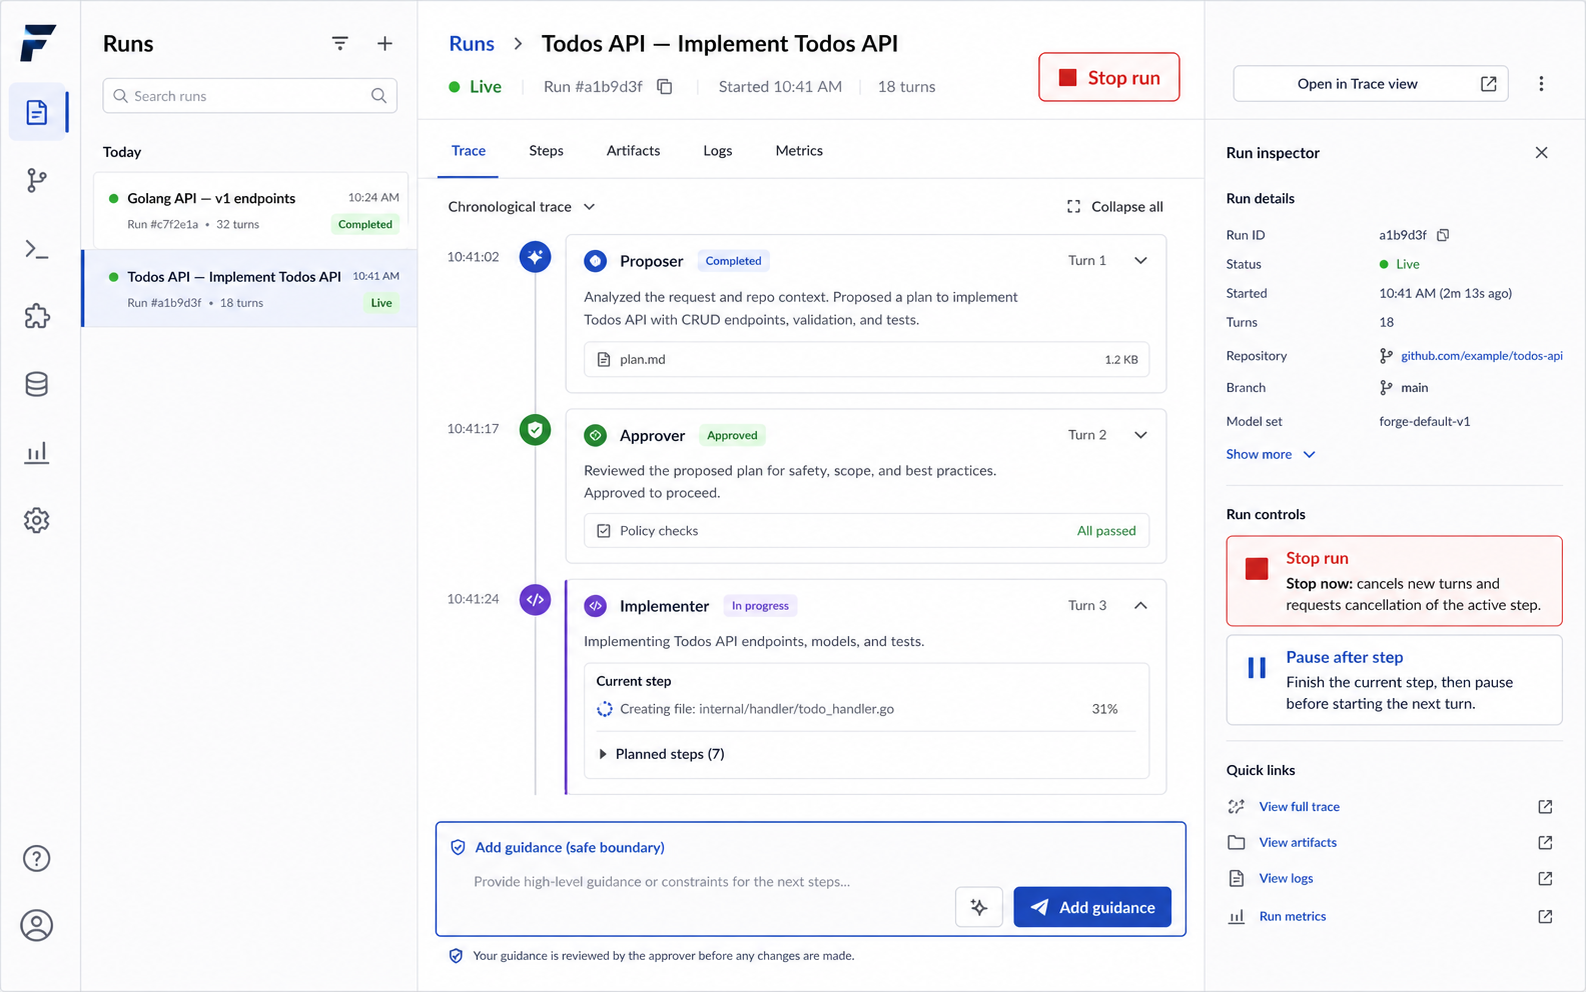
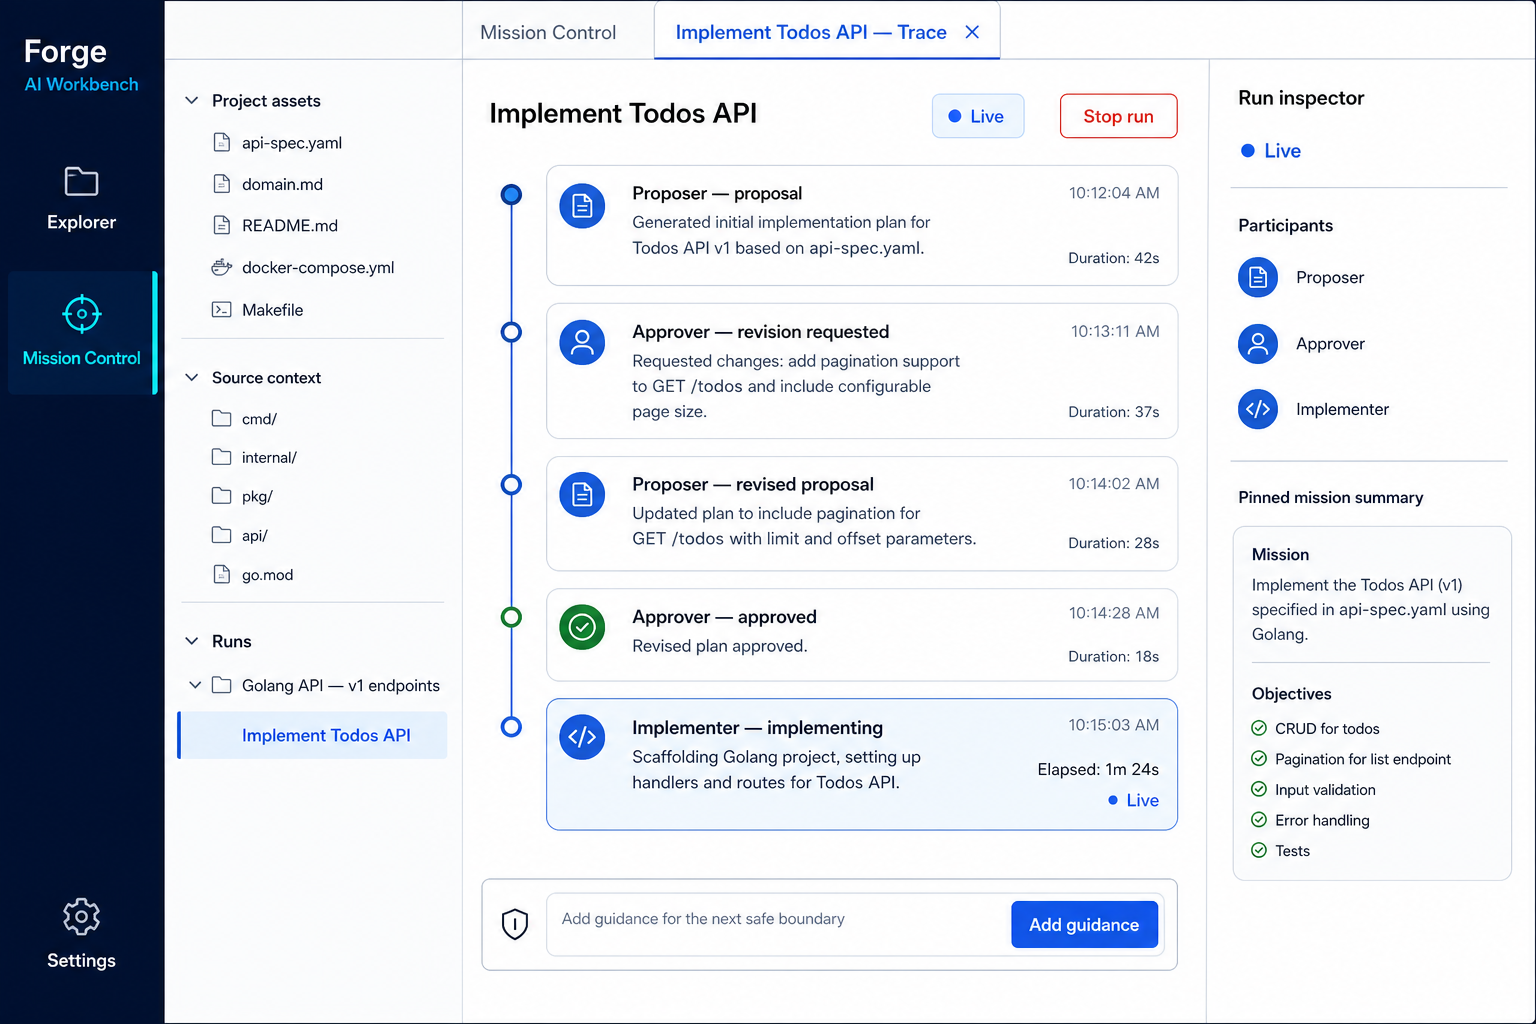
docs: unify Forge workbench journey visuals

diff --git a/docs/brainstorm/mission-conversations/README.md b/docs/brainstorm/mission-conversations/README.md
@@ -18,9 +18,10 @@ configuration—not a hosted shared workspace with membership or project-level r
 Forge workspace
 └── Project — e.g. Todos API, Golang API, TypeScript API
     ├── Mission Control — the long-lived human ↔ Forge REPL
-    ├── Mission assets — mission.mcl, expert prompts, profiles, context, checks
+    ├── Project assets — mission.mcl, expert prompts, profiles, context, checks
+    ├── Source context — attached files, directories, repositories, and artifacts
     └── Runs — named executions launched from the project
-        └── Janus trace — Proposer → Approver → Implementer
+        └── Janus trace — a debugger-like view of Proposer → Approver → Implementer
 ```
 
 This names the layers deliberately. In MCL, a `mission` is an executable definition; **Janus** is
@@ -43,15 +44,46 @@ credentials and explicit capability/approval policy of that action—not by a sp
 Project-owner/contributor permission system. Version control may share the project manifest and
 assets in the ordinary way; real-time hosted collaboration is a separate future product decision.
 
+## Locked MVP activity rail
+
+The workbench keeps a small, VS Code-like vertical activity rail. It is deliberately not a menu of
+every possible object in Forge. The three entries below are the initial MVP contribution set, not a
+closed or hard-coded list: later Forge capabilities can register an additional rail entry, pane, and
+document surface without changing the Project, Mission Control, or Run model.
+
+1. **Project Explorer** — a collapsible file/folder navigator for the selected local Project:
+   Mission assets, source context, and the Project-owned Runs.
+2. **Mission Control** — a control-tower entry point to the Project's continuing Forge conversation.
+   Its active and recent run cards link directly to their corresponding trace documents.
+3. **Settings** — a gear fixed at the bottom of the rail. For the MVP it opens an intentionally
+   empty placeholder surface, reserving a stable home for settings without inventing their scope.
+
+There is no separate **Runs** rail application: a Project owns its runs, Mission Control launches
+and links to them, and a selected run opens as a trace document. Notifications are deferred entirely
+from the MVP, including a rail icon; later they can become a workspace-level attention inbox for
+human intervention that deep-links to the owning Project, run, and trace.
+
+## Locked MVP visual language
+
+The workbench uses a light, calm content canvas paired with a dark navy activity rail. Forge blue
+and cyan express navigation, selection, and interactive actions; lime is reserved for positive,
+approved, or healthy states. Borders, inactive icons, and supporting text use restrained blue-gray.
+The palette should feel technical and distinctive without becoming a neon or rainbow interface.
+
+Every journey mock uses the same rail in the same order: **Project Explorer** (folder), **Mission
+Control** (control-tower/crosshair), then **Settings** (gear, fixed to the bottom). The currently
+open surface alone receives the cyan selected treatment. No mock introduces a fourth rail entry,
+including Notifications or a standalone Runs view.
+
 ## The chronological experience
 
 ### 1. Choose a project
 
-Forge opens on Projects. The user selects an existing project—such as `Golang API` or
-`TypeScript API`—or creates a new one. The activity rail is persistent; its flyouts are manually
-collapsible, like VS Code.
+Forge opens with Project Explorer selected. The user selects an existing project—such as `Golang
+API` or `TypeScript API`—or creates a new one. The activity rail is persistent; its side panes are
+manually collapsible, like VS Code.
 
-![Step 1 — choose Golang API or TypeScript API from the Projects flyout](../images/mission-project-flow-01-choose-project.png)
+![Step 1 — choose Golang API or TypeScript API from Project Explorer](../images/mission-project-flow-01-choose-project.png)
 
 ### 2. Create a project from a goal
 
@@ -89,16 +121,16 @@ existing one.
 
 ### 6. Inspect and steer the Janus trace
 
-The run opens as an inspectable Forge Trace: its own surface, separate from Mission Control. A
-Runs flyout lists multiple named executions—shown here with `Golang API — v1 endpoints` and
-`Todos API — Implement Todos API` visible together. The selected trace shows the real
+The selected Project-owned run opens as an inspectable Forge Trace document. Mission Control remains
+the control surface and lists active and recent named runs; selecting one opens its trace without
+turning the trace itself into a generic chat room. The selected trace shows the real
 Proposer → Approver → Implementer exchange, state, artifacts, and a genuine safe-boundary guidance
 control. It also shows three deliberately different intervention paths: **Add guidance** for the
 next safe boundary, **Pause after step** to finish the active bounded action before stopping, and
 the prominent red **Stop run** break-glass control for drift or an unsafe direction. Selecting a
-run never hides, merges, or replaces the other run records.
+run never hides, merges, or replaces the other run records in Mission Control.
 
-![Step 6 — a named Runs flyout and selected Janus trace with safe-boundary guidance](../images/mission-project-flow-06-run-trace.png)
+![Step 6 — Project-owned Runs and a selected Janus trace with safe-boundary guidance](../images/mission-project-flow-06-run-trace.png)
 
 ### 7. Return the outcome to Mission Control
 
@@ -113,19 +145,19 @@ from a raw transcript.
 
 1. **Mission Control is project-scoped.** Opening `Golang API` and `TypeScript API` opens
    different durable control conversations and context, rather than two tabs over one global chat.
-2. **Run traces are inspectable documents.** They are dockable alongside source, diffs, artifacts,
+2. **A Project owns its runs.** Mission Control launches and summarizes them; its active and recent
+   run cards open the selected run's trace.
+3. **Run traces are inspectable documents.** They are dockable alongside source, diffs, artifacts,
    and mission-definition views; they are not generic chat rooms.
-3. **The activity rail provides navigation, not a permanent second transcript.** At ordinary
-   desktop width, the Projects or Runs flyout is visible by default when its rail icon is selected.
-   It can be manually collapsed exactly like VS Code’s primary sidebar, while the activity rail
-   remains available to restore it. On constrained widths, collapse the inspector before the
-   active flyout; hide it automatically only on genuinely narrow/mobile layouts.
-4. **Durability remains server-owned.** The workbench discovers projects, conversations, and runs
+4. **The activity rail is intentionally small.** Project Explorer and Mission Control open
+   collapsible side panes; Settings is fixed at the bottom. There is no separate Runs surface or
+   Notifications icon in the MVP.
+5. **Durability remains server-owned.** The workbench discovers projects, conversations, and runs
    through projections of canonical durable state. It must not maintain a second UI-owned
    transcript store.
-5. **A run has an immutable launch snapshot.** Its project context and mission-definition version
+6. **A run has an immutable launch snapshot.** Its project context and mission-definition version
    are recorded when it starts, so its trace and outcomes remain reproducible and intelligible.
-6. **Stopping is a deliberate next capability, not UI theatre.** The run-trace mock shows the
+7. **Stopping is a deliberate next capability, not UI theatre.** The run-trace mock shows the
    intended red `Stop run` control adjacent to `Live`, not inside an overflow menu. Its durable
    runtime implementation is explicitly deferred until immediately after this UI exercise; see
    [the backlog](../../backlog.md). When built, it will block queued/future turns, request

diff --git a/docs/phases/phase-43.4-ide-trace-surface.md b/docs/phases/phase-43.4-ide-trace-surface.md
@@ -142,16 +142,31 @@ visible, versioned homes for security/policy checks and reporting, without hardc
 workbench. Composition alone cannot enforce a hard budget or cancel an in-flight host operation;
 the durable runtime enforcement layer is deferred to the next backlog item after this UI exercise.
 
-The vertical activity rail must expose a **Conversations** (or **Missions**) view. At normal
-Desktop/workbench width it opens a named, Rooms-like list of durable records beside the selected
-Forge Trace. The exact list is Project-scoped where appropriate: it may show that Project's named
-runs, while the Project switcher shows `Golang API` and `TypeScript API`. Selecting a row changes
-the active trace; it never hides or merges the other rows. The list is visible by default but
-manually collapsible exactly like VS Code's primary sidebar; the activity rail remains visible to
-restore it. When width is constrained, collapse the inspector before the conversation list; hide
-the list automatically only on genuinely narrow/mobile layouts. The selected trace remains a
-dockable document surface next to source/diff/artifact tabs — it is not a generic chat-room
-rendering.
+The MVP vertical activity rail has exactly three stable entry points. This is an initial contribution
+set, not a closed enum: later Forge capabilities can register an additional rail entry, pane, and
+document surface without changing the Project, Mission Control, or Run model.
+
+1. **Project Explorer** opens the selected local Project's collapsible file/folder navigator:
+   Mission assets, source context, and Project-owned Runs.
+2. **Mission Control** opens that Project's continuing REPL-like conversation. Its active and
+   recent run cards link directly to the selected run's trace.
+3. **Settings** is a gear fixed at the bottom of the rail. It opens an intentionally empty
+   placeholder surface in this MVP.
+
+There is no separate Runs application: the Project owns the runs; Mission Control launches and
+links to them; the selected run opens as a Forge Trace document. At normal desktop/workbench width,
+the Project Explorer and Mission Control panes are visible by default and manually collapsible
+exactly like VS Code's primary sidebar; the activity rail remains visible to restore them. The
+trace remains a dockable document surface next to source/diff/artifact tabs — it is not a generic
+chat-room rendering. Notifications are deferred entirely from this MVP, including a rail icon; a
+future notification inbox can deep-link human-intervention requests to the owning Project, run, and
+trace.
+
+The locked visual language is a light content canvas with a dark navy activity rail. Forge blue and
+cyan communicate navigation, selection, and actions; lime is reserved for positive, approved, or
+healthy state. All journey mocks keep the same rail order—Project Explorer (folder), Mission
+Control (control-tower/crosshair), Settings (gear fixed at bottom)—and give cyan selection treatment
+only to the active surface. Notifications and a standalone Runs icon must not appear in this MVP.
 
 The underlying Project, conversation, and run lists are service queries/projections over canonical
 durable state, never UI-owned second transcripts. See the [project Mission Control and Janus runs
